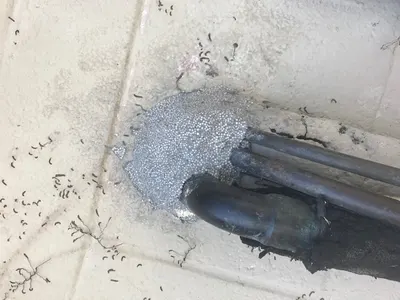
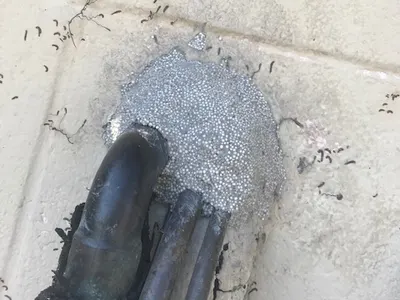
Fix image rotation on 10 gallery photos
Images downloaded from Wix had EXIF orientation 6 (90 CCW) and 3 (180)
but Sharp didn't auto-rotate during initial processing. Manually
rotated all affected images to correct orientation.

Fixes Bill's profile photo and gallery images for armadillo, nutria,
cat, opossum, and repair/exclusion work photos.

diff --git a/fix-rotation.js b/fix-rotation.js
@@ -1,0 +1,39 @@
+const sharp = require('sharp');
+const fs = require('fs');
+const path = require('path');
+
+const fixes = { 6: 90, 3: 180 };
+const srcDir = 'scraped/images';
+const outDir = 'public/images/gallery';
+
+async function fixAll() {
+  const files = fs.readdirSync(srcDir).filter(f => /\.(jpg|jpeg|png)$/i.test(f) && fs.statSync(path.join(srcDir, f)).size > 5000);
+
+  let fixed = 0;
+  for (const file of files) {
+    const input = path.join(srcDir, file);
+    const meta = await sharp(input).metadata();
+    const rotation = fixes[meta.orientation];
+
+    if (!rotation) continue;
+
+    const name = file.replace(/\.[^.]+$/, '');
+
+    await sharp(input)
+      .rotate(rotation)
+      .resize(800, null, { withoutEnlargement: true })
+      .webp({ quality: 82 })
+      .toFile(path.join(outDir, name + '-full.webp'));
+
+    await sharp(input)
+      .rotate(rotation)
+      .resize(400, 300, { fit: 'cover', position: 'center' })
+      .webp({ quality: 78 })
+      .toFile(path.join(outDir, name + '-thumb.webp'));
+
+    console.log('Fixed: ' + file + ' (rotated ' + rotation + ')');
+    fixed++;
+  }
+  console.log('Total fixed: ' + fixed);
+}
+fixAll();
